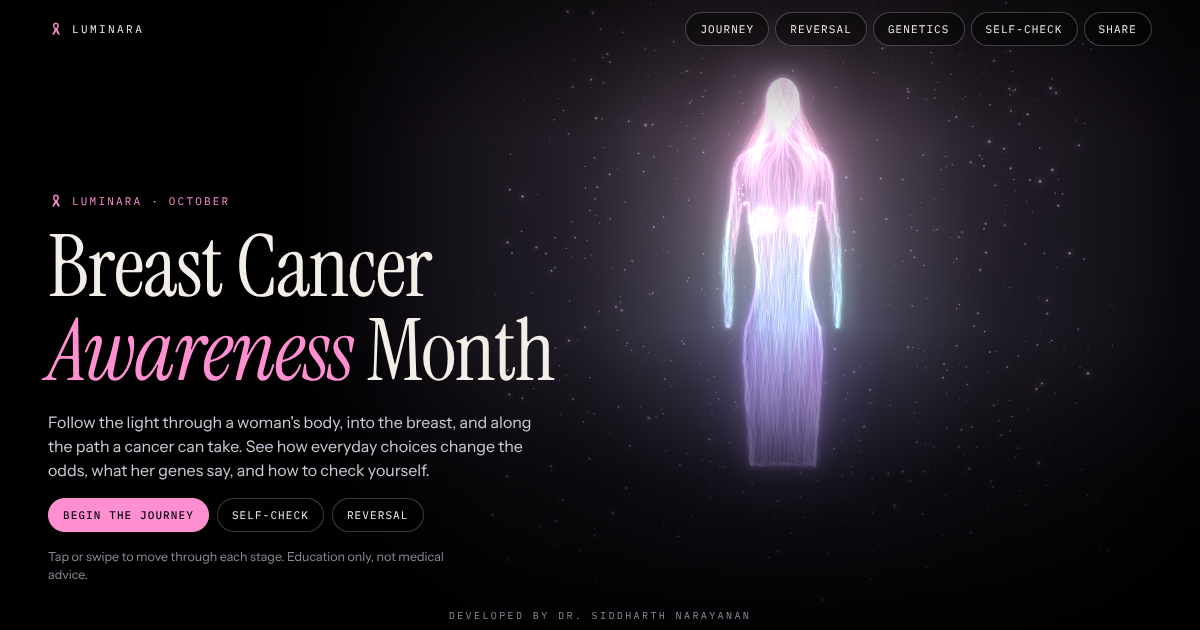
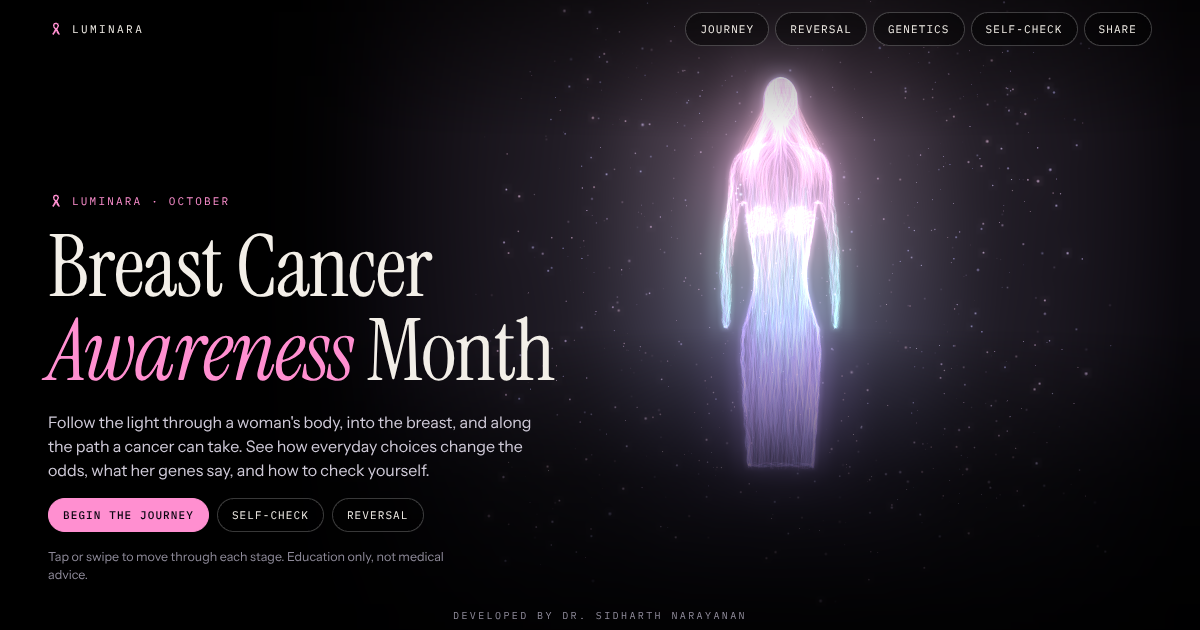
Correct credit spelling to Dr. Sidharth Narayanan
Claude-Session: https://claude.ai/code/session_01DeqqLsDyuZZ4xarufcPMrF

Changed region(s): [[0.5858, 0.1206, 0.7092, 0.6333], [0.37, 0.9651, 0.6167, 0.9952]]

diff --git a/index.html b/index.html
@@ -5,7 +5,7 @@
     <meta name="viewport" content="width=device-width, initial-scale=1.0" />
     <meta name="description" content="Luminara: a luminous journey through breast cancer, from healthy tissue to treatment, with what can reverse it and what genes say." />
     <meta name="theme-color" content="#000000" />
-    <meta name="author" content="Dr. Siddharth Narayanan" />
+    <meta name="author" content="Dr. Sidharth Narayanan" />
     <meta property="og:type" content="website" />
     <meta property="og:site_name" content="Luminara" />
     <meta property="og:title" content="Breast Cancer Awareness Month" />

diff --git a/src/App.jsx b/src/App.jsx
@@ -9,7 +9,7 @@ import { Story, MoreSheet } from './ui/Story.jsx';
 import { ReversalPanel, EvidenceSheet, HABITS } from './ui/Reversal.jsx';
 
 const BRAND = 'Luminara';
-const CREDIT = 'developed by Dr. Siddharth Narayanan';
+const CREDIT = 'developed by Dr. Sidharth Narayanan';
 const LAB_START = { drink: 1, move: 1, weight: 1, plate: 1, scan: 1 };
 
 const SECTIONS = [

diff --git a/README.md b/README.md
@@ -72,4 +72,4 @@ npm install && npm test && SITE_URL=https://your-domain npm run build   # static
 - **GitHub Pages:** `.github/workflows/pages.yml` builds and deploys on merge to `main`. Enable Pages with source "GitHub Actions" and set the repository variable `SITE_URL`.
 - The site is fully static, sets no cookies and collects no data.
 
-Credit shown in the footer: developed by Dr. Siddharth Narayanan.
+Credit shown in the footer: developed by Dr. Sidharth Narayanan.
